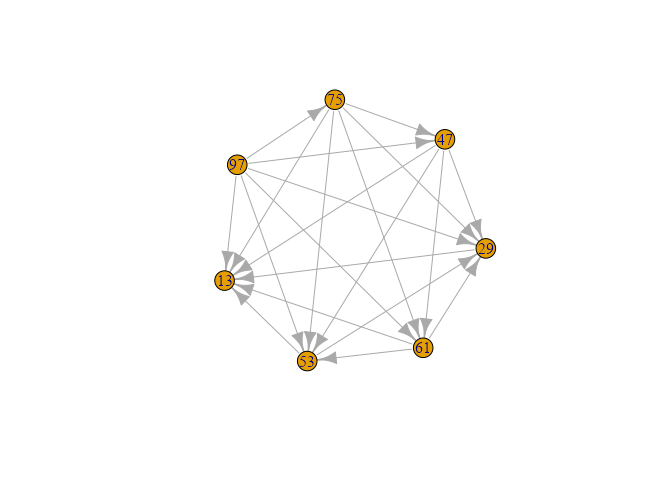
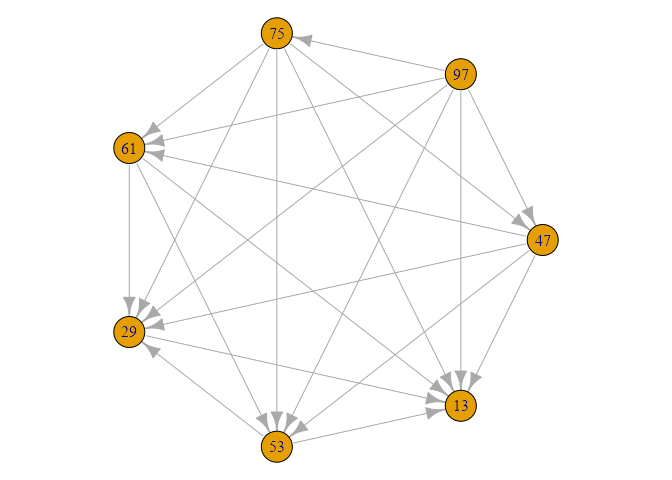
added fold hook to fold optional / visualisation code, re-rendered README

diff --git a/README.md b/README.md
@@ -397,7 +397,7 @@ str(parsed_lst, list.len = 3)
 #>   .. [list output truncated]
 ```
 
-#### part1: count updates that comply with all page ordering rules
+## part1: count updates that comply with all page ordering rules
 
 Rule `47|53` means that if both pages occur in update, 47 must be printed before 53,
 though not essentially immediately before 53.
@@ -408,6 +408,7 @@ Elves need to know the middle page number of each correct update, answer is some
 
 ``` r
 # Ex: 143
+#
 check_page_order <- function(pages, g){
   # 75,47,61,53,29 -> from = 75, to = 47; ... ; from = 53, to = 29
   mapply(
@@ -421,12 +422,6 @@ g <-
   parsed_lst$rules |> 
   do.call(what = rbind) |> 
   graph_from_data_frame()
-plot(g)
-```
-
-![](img/day05_reprex_files_unnamed-chunk-4-1.png)<!-- -->
-
-``` r
 
 rule_compliance <- sapply(parsed_lst$updates, check_page_order, g = g)
 is_valid <- sapply(rule_compliance, all)
@@ -436,9 +431,16 @@ parsed_lst$updates[is_valid] |>
   as.numeric() |> 
   sum()
 #> [1] 143
+
+withr::with_par(
+  list(mar = c(0,0,0,0)),
+  plot(g, layout = layout_in_circle)
+)
 ```
 
-#### part2: fix failed updates
+![](img/day05_reprex_files_unnamed-chunk-4-1.png)<!-- -->
+
+### part2: fix failed updates
 
 Swap 1st failed location and next position until rule check passes
 
@@ -877,47 +879,61 @@ apply(y_pos_rnd, 2, table) |> lengths() |> sum()
 
 #### viz
 
+Antenna locations from input (filled), antinodes for *part1* (circles) and *part2* (diamonds)
+along with lines that intersect each same-frequency antenna pair and are described by `equations`.
+
+<details>
+<summary>
+Code
+</summary>
+
 ``` r
-ufreq <- unique(antenna_locations$freq)
-pal <- 
-  length(ufreq) |> 
-  hcl.colors("Dark 2") |> 
-  setNames(ufreq)
-
-par(
-  mar = c(2,2,2,2)+.1,
-  pty = "s"
-)
-
-# input points (filled)
-with(antenna_locations, plot(z, pch = 20, cex = 5, col = pal[freq], xlim = c(1, ncol(m)), ylim = c(nrow(m), 1)))
-
-# lines 
-names(equations) |> 
-  lapply(\(freq) apply(equations[[freq]], 1, \(row_) abline(row_["intercept"], row_["slope"], col = pal[freq], lty = 2))) |> 
-  invisible()
-
-# input point labels
-with(antenna_locations, points(z, pch = freq, cex = 1.5, col = "white"))
-
-# points (part 2, diamond)
-for(x_pos in seq_len(ncol(y_pos_rnd))){
-  y <- y_pos_rnd[,x_pos] |> na.omit() |> unique()
-  x <- rep(x_pos, length(y))
-  points(x, y, cex = 3, lwd = 2, pch = 5, col = "gray50")
+plot_antinodes <- function(antenna_locations, equations){
+  ufreq <- unique(antenna_locations$freq)
+  pal <- 
+    length(ufreq) |> 
+    hcl.colors("Dark 2") |> 
+    setNames(ufreq)
+  
+  # input points (filled)
+  with(antenna_locations, plot(z, pch = 20, cex = 5, col = pal[freq], xlim = c(1, ncol(m)), ylim = c(nrow(m), 1)))
+  
+  # lines 
+  names(equations) |> 
+    lapply(\(freq) apply(equations[[freq]], 1, \(row_) abline(row_["intercept"], row_["slope"], col = pal[freq], lty = 2))) |> 
+    invisible()
+  
+  # input point labels
+  with(antenna_locations, points(z, pch = freq, cex = 1.5, col = "white"))
+  
+  # points (part 2, diamond)
+  for(x_pos in seq_len(ncol(y_pos_rnd))){
+    y <- y_pos_rnd[,x_pos] |> na.omit() |> unique()
+    x <- rep(x_pos, length(y))
+    points(x, y, cex = 3, lwd = 2, pch = 5, col = "gray50")
+  }
+  
+  # part1 points, circles
+  names(anti_locations) |>
+    lapply(\(freq){
+      data.frame(freq, z = anti_locations[[freq]])
+    }) |> 
+    do.call(what = rbind) |> 
+    with(points(z, pch = 1, cex = 5, lwd = 3, col = pal[freq]))
+  grid(nx = ncol(m), ny = nrow(m))  
 }
-
-# part1 points, circles
-names(anti_locations) |>
-  lapply(\(freq){
-    data.frame(freq, z = anti_locations[[freq]])
-  }) |> 
-  do.call(what = rbind) |> 
-  with(points(z, pch = 1, cex = 5, lwd = 3, col = pal[freq]))
-grid(nx = ncol(m), ny = nrow(m))
 ```
 
-![](img/day08_reprex_files_unnamed-chunk-8-1.png)<!-- -->
+</details>
+
+``` r
+withr::with_par(
+  list(mar = c(2,2,2,2)+.1, pty = "s"),
+  plot_antinodes(antenna_locations, equations)
+)
+```
+
+![](img/day08_reprex_files_plot-1.png)<!-- -->
 ## Day 9: Disk Fragmenter
 
 <https://adventofcode.com/2024/day/9>
@@ -1184,6 +1200,11 @@ lengths(paths_0_9) |> sum()
 
 Heights (vertices) and remaining edges that form paths, colored by a number of paths they are part of.
 
+<details>
+<summary>
+Code
+</summary>
+
 ``` r
 edge_score <- 
   paths_0_9 |> 
@@ -1200,20 +1221,20 @@ E(g)$color <- E(g)$score |> cut(5) |> scales::dscale(\(n) sequential_pal(n+1)[-1
 E(g)[score == 0]$color <- "gray80"
 # mark trailheads and highest points
 V(g)[height %in% c(0, 9)]$frame.color <- "darkred"
+V(g)$label <-  V(g)$height
+```
 
+</details>
+
+``` r
 withr::with_par(
+  # list(mar = c(0,0,0,0), pty = "s"),
   list(mar = c(0,0,0,0)),
-  plot(
-    g, 
-    vertex.label = V(g)$height, 
-    vertex.label.cex = 2, 
-    vertex.shape = "square", 
-    vertex.frame.width = 3 
-  )
+  plot(g, vertex.label.cex = 2, vertex.shape = "square", vertex.frame.width = 3)
 )
 ```
 
-![](img/day10_reprex_files_unnamed-chunk-6-1.png)<!-- -->
+![](img/day10_reprex_files_plot-1.png)<!-- -->
 
 #### part2: calculate trailhead ratings
 
